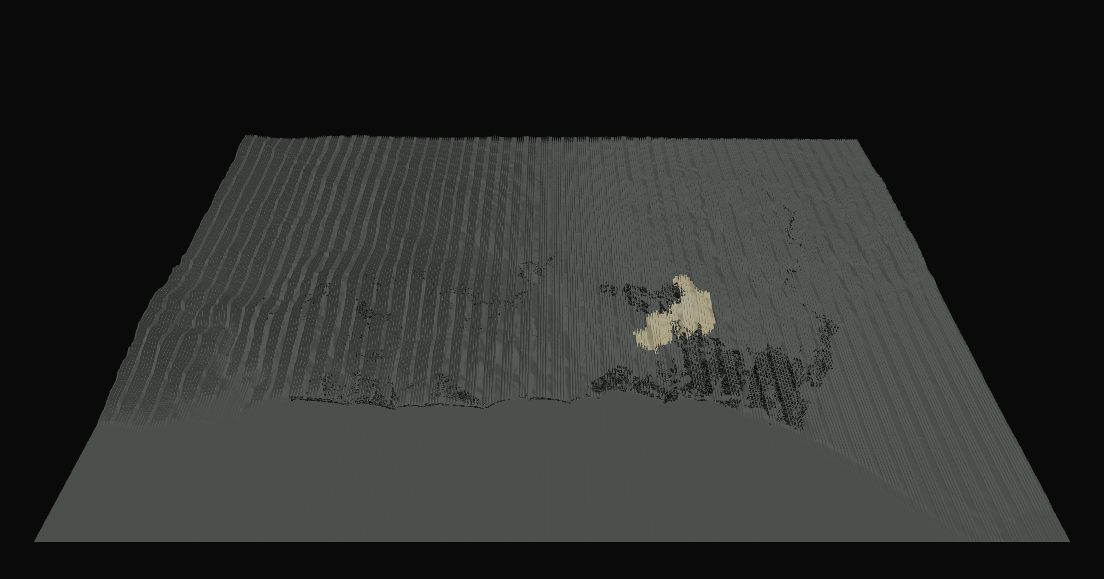
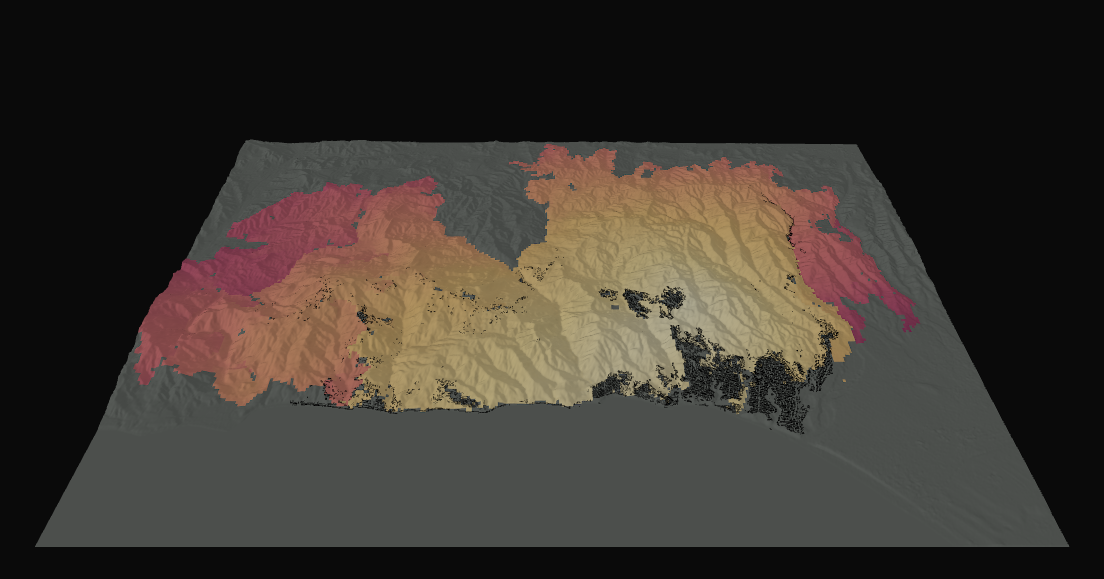
the holes in the ground: dem_window put Copernicus pixel centres exactly on output cell edges, so at one arc-second one column in three or four received no pixel and came out NaN; Horn's slope read each hole as a cliff and both fire engines had been burning across east-west cliffs all day (seen by A
Claude-Session: https://claude.ai/code/session_018TGCFhEpYs9hm68xDLd5Xy

diff --git a/crates/registry/src/terrain.rs b/crates/registry/src/terrain.rs
@@ -23,7 +23,8 @@ pub struct DemWindow {
     pub provenance: String,
 }
 
-const RECIPE_VERSION: &str = "terrain-v2"; // v2: reader honours PixelIsPoint
+const RECIPE_VERSION: &str = "terrain-v3"; // v2: reader honours PixelIsPoint; v3: grid laid half a pixel off the lattice (no empty columns)
+const SOURCE_ARCSEC: f64 = 1.0; // Copernicus GLO-30 below 50 degrees of latitude
 
 fn derived_path(fetcher: &Fetcher, key: &str) -> PathBuf {
     let dir = fetcher.cache_dir.join("derived");
@@ -45,8 +46,16 @@ fn write_f32s(path: &std::path::Path, v: &[f32]) {
 /// The window is snapped outward to whole output cells.
 pub fn dem_window(fetcher: &mut Fetcher, dem: &Asset, lat_s: f64, lat_n: f64, lon_w: f64, lon_e: f64, res_arcsec: f64) -> Result<DemWindow, String> {
     let d = res_arcsec / 3600.0;
-    let lon_w = (lon_w / d).floor() * d;
-    let lat_n = (lat_n / d).ceil() * d;
+    // GLO-30's pixel centres sit on whole arc-seconds. An output grid whose edges also sit on
+    // whole arc-seconds puts every source centre exactly on an edge, and floating-point rounding
+    // then decides which cell it falls in: at one arc-second one column in three or four got no
+    // pixel at all and came out NaN, which the slope code read as a 400 m trench (found 2026-11-03
+    // in the Palisades window). So the grid is laid half a source pixel off the lattice: at the
+    // DEM's own resolution each cell is centred on its pixel, and at coarser ones no pixel centre
+    // lies on an edge.
+    let half = SOURCE_ARCSEC / 3600.0 / 2.0;
+    let lon_w = (lon_w / d).floor() * d - half;
+    let lat_n = (lat_n / d).ceil() * d + half;
     let nx = ((lon_e - lon_w) / d).ceil() as usize;
     let ny = ((lat_n - lat_s) / d).ceil() as usize;
     // tiles needed
@@ -78,6 +87,7 @@ pub fn dem_window(fetcher: &mut Fetcher, dem: &Asset, lat_s: f64, lat_n: f64, lo
     let mut cnt = vec![0u32; nx * ny];
     for (_, p) in &paths {
         let r = cog::read(p)?;
+        if ((r.dx * 3600.0) - SOURCE_ARCSEC).abs() > 1e-6 { eprintln!("dem: tile pixel is {:.4} arcsec, not {SOURCE_ARCSEC}; the grid may not sit on its centres", r.dx * 3600.0); }
         // map every source pixel centre into an output cell
         for row in 0..r.height {
             let lat = r.lat(row);

diff --git a/devlog/20261103-the-holes-in-the-ground.md b/devlog/20261103-the-holes-in-the-ground.md
@@ -1,0 +1,93 @@
+# 2026-11-03 — The holes in the ground
+
+Anselm, looking at the three-dimensional view of the engine run, asked why the terrain was
+striped, and whether the 3D scene was "simply a 3D surface with the other model draped on
+it". The second is true by design: `Scene3D.svelte` draws the terrain frame as a mesh, the
+building frame as boxes and the arrival frame as vertex colour. The first was a bug that
+both fire engines had been running on all day.
+
+## What it was
+
+`dem_window` in `crates/registry/src/terrain.rs` bins every source pixel centre into an
+output cell. Copernicus GLO-30's pixel centres sit on whole arc-seconds; the output grid's
+edges also sat on whole arc-seconds (`lon_w` floored to a multiple of the cell). So every
+source centre lay exactly on a cell edge, and floating-point rounding chose the side. In the
+Palisades window at one arc-second, 222 of 937 columns received no pixel at all and came out
+NaN (a repeating 3, 3, 3, 3, 7 pattern), plus the last row. The frames shown on the maps are
+reduced to 3-arcsecond blocks (earliest arrival, most common class), which hide a one-column
+hole; the full-resolution terrain mesh was the first view that did not.
+
+The slope code (`DemWindow::slope_aspect`, Horn's method) reads a NaN neighbour as 0 m. A
+hole between two columns at 450 m is a 450 m trench one cell wide, so the two columns beside
+every hole had a slope near 84 degrees facing the hole. Rothermel's slope factor goes with
+tan² of that (about 90) and `fire.cells` stretches its reach by tan (about 10) in the uphill
+direction. Both engines had been burning across a landscape of east-west cliffs. The Rothermel
+overrun that the project page, the limits page and the Substack draft all reported as "four
+times the record at 27 hours" was this.
+
+## The fix
+
+The grid is laid half a source pixel off the lattice (`SOURCE_ARCSEC = 1.0`, a constant for
+GLO-30 below 50 degrees; the reader warns if a tile's pixel disagrees). At the DEM's own
+resolution each cell is now centred on its pixel; at coarser resolutions no pixel centre lies
+on an edge. `RECIPE_VERSION` went to `terrain-v3`, so the derived caches are rebuilt. The
+window's `lon_w` and `lat_n` move by half an arc-second, and every layer that derives its
+grid from the window (cover, buildings, roads, perimeters, inspections) moves with it.
+
+The Boone basin at 15 arc-seconds had no holes (fifteen pixels per cell, one ambiguous at the
+edge) but its bins shifted, and `esim regress` drifted: NSE 0.4685 to 0.4751, KGE 0.4352 to
+0.4412, PBIAS 31.4 to 28.6 percent. Accepted with `--accept`; this entry is the explanation.
+Tests pass.
+
+## What the fire looks like on real ground
+
+Every variant of both projects rerun (`esim project run`, old runs pruned to one per variant).
+The first infrared perimeter is 15,824 acres at 27 hours; the last mapped is 23,343.
+
+| run | 27 h before | 27 h after | end before | end after | overlap at end | destroyed reached |
+|---|---|---|---|---|---|---|
+| rothermel reanalysis | 79,107 | 2,031 | 80,304 | 20,892 | 0.58 | 0.28 |
+| rothermel gusts | 75,668 | 2,498 | 80,904 | 34,577 | 0.62 | 0.91 |
+| rothermel built-barrier | 67,843 | 1,606 | 68,151 | 19,589 | 0.56 | 0.07 |
+| rothermel sh7 | 78,762 | 1,834 | 80,193 | 13,970 | 0.56 | 0.25 |
+| cells near-4 | 22,431 | 15,306 | 50,340 | 46,759 | 0.59 | 0.12 |
+| cells houses | 23,093 | 15,458 | 50,842 | 51,702 | 0.56 | 0.19 |
+| cells houses-jitter | 22,844 | 15,062 | 50,577 | 43,773 | 0.61 | 0.16 |
+| cells near-2 | 65,315 | 56,278 | 67,201 | 63,159 | 0.51 | 0.65 |
+| cells scale-6 | 69,187 | 0 | 69,504 | 0 | | |
+
+The picture flipped. Rothermel on the 25 km reanalysis wind is now about eight times too
+slow on the first day (395 acres at the triangle's hour against 2,920; 2,031 at 27 hours
+against 15,824) and reaches the record's size at the end of the fourth day, when the real
+fire was being held; the shape it ends with is fair. The gusts variant is the only one that
+overruns, and only by the end. Our own engine felt the cliffs less, because its slope term is
+linear in the tangent and acts only in the uphill direction; its near-reach runs now sit on
+the record's 27-hour acreage almost exactly (15,306 against 15,824 for near-4) and still run
+to twice the record by day four because nothing stops them. The scale-6 variant, which burned
+69,000 acres on the cliffs, burns nothing at all on real ground: the ignition cell's
+neighbours never reach threshold. Destroyed-structure recall in the plausible-pace runs fell
+from 0.32 to 0.19 for the houses variant; the fire had been reaching the neighbourhoods partly
+along the phantom slopes.
+
+The lesson for the honesty rule: the overrun was reported with the right caveats (no
+suppression, no barriers, recalled fuel table) and the wrong cause. Every number on the
+pages, in `limits.md`, in `CLAUDE.md` and in the Substack draft was rewritten this
+afternoon; the draft's fire paragraph now says the model is slow on the first day, not fast.
+The covers of both projects were re-rendered from the new runs.
+
+## Questions he asked along the way, answered on the pages
+
+Both engines are cellular automata on a one-arcsecond grid, neither fitted statistically:
+Rothermel is a 1972 physical-empirical rate per fuel type shaped into an ellipse; `fire.cells`
+is a heat budget with declared guesses. Elevation enters both as slope and aspect for the
+fire's spread and nowhere for the wind: the wind is a flat field (one ERA5 point; HRRR at 3 km
+interpolated to each cell), with no terrain channelling and no feedback from the fire (no
+convective column, no indraft, no plume-driven spread). Vegetation is a WorldCover class
+mapped to a fuel model (Rothermel: six classes to five Scott and Burgan models plus a guessed
+urban one) or to one of four kinds with three numbers each (`fire.cells`); no species, fuel
+load, time since burn, canopy height or seasonal live moisture. Added to `limits.md` and to
+the todo as the next modules: terrain-adjusted wind first, a local indraft second, a fuel map
+made for fire third.
+
+Session: Claude Fable 5.1, the esimv1 room on canada1, 2026-11-03 afternoon; this entry was
+written at the end of it. Scratch tables in the session scratchpad (`summarise-fire.py`).

diff --git a/projects/anselm/palisades-2025/README.md b/projects/anselm/palisades-2025/README.md
@@ -43,32 +43,40 @@ table 2025-01-08T21:25Z fire.burned_acres=burned obs.acres=mapped fit.sorensen=o
 table 2025-01-12T00:00Z fire.burned_acres=burned_by_the_end obs.acres=last_mapped fit.sorensen=overlap
 ```
 
-The model overruns the record by a wide margin. On the reanalysis wind it burns about four
-times the area the mapping teams found at 27 hours, and by the second day it has burned
-every cell in the window that can burn, from Malibu to Brentwood, which the real fire did
-not. Four variants ask whether the overrun is a matter of the wind, the
-houses or the shrub: the reanalysis gusts in place of the mean wind, built-up land as a
-barrier instead of a carrier, and the heavier chaparral model. None of them closes the
-gap; the barrier variant removes the houses from the count and nothing more.
+On the reanalysis wind the model is slow. At the hour of the first infrared map it has
+burned about an eighth of the mapped area, and it reaches the record's size only at the
+end of the fourth day, when the real fire had been that size for three. The shape it ends
+with is fair: a little over half of the burned-and-mapped union agrees. Four variants ask
+whether the shortfall is the wind, the houses or the shrub. The reanalysis gusts in place
+of the mean wind close part of the first day's gap and overrun by the end; the heavier
+chaparral model burns less, not more; built-up land as a barrier changes little. None of
+them produces the first night, when the real fire went from the ridge to the sea in hours.
+
+Until the afternoon of 2026-11-03 these runs were made on broken ground. The elevation
+window had a column of missing values every third or fourth cell, which the slope code
+read as a cliff on either side, and the model then burned four times the record and filled
+the window by the second day. The runs on this page are on the corrected ground; the
+devlog entry *The holes in the ground* has the account.
 
 ## What that means
 
-A spread model with no suppression, no roads, no fuel breaks and no burn scars, on a
-landscape where every cell carries fuel, is an upper bound: the fire the land would
-allow. At the hour of the first mapped figure, eleven and a half hours in, the model has
-more than twenty times the acreage the triangle states, and the difference is the things
-this model does not have. Three of them are known and are the next work:
+Two things are missing and they pull in opposite directions. The wind that blew on the
+ridges that night was two or three times what a 25 km reanalysis says, and a spread model
+on the real wind runs faster; the engine project beside this one, which reads NOAA's 3 km
+analysis with its gusts, matches the first day's acreage. And nothing here is fought: by the
+second day the real fire was being held on its eastern and northern flanks, so a model that
+is slow early and unhindered late can end near the right size without having been right at
+any hour. The hourly perimeters, not the final acreage, are the test. Three things are
+known and are the next work:
 
-- The fuel table, recalled, to be checked line by line against the published models.
-- Roads, ridgelines and the 2021 Palisades burn scar as barriers, from OpenStreetMap and
-  the fire history.
+- The wind shaped by the terrain, so the Santa Ana accelerates down the canyons and
+  slackens in the lee, instead of one flat value for the window.
+- The fuel table, recalled, to be checked line by line against the published models, and a
+  fuel map made for fire beside the land-cover classes.
 - Suppression as an agent: engines, dozers and aircraft placed by rule, holding lines
   where the record says lines held.
 
-The overlap scores above are honest about the shape as well as the size: about a third of
-the burned-and-mapped union agrees at 27 hours, because the model's fire does cover the
-real one and then goes far beyond it. The arrival-time map on each run page shows where
-it went first.
+The arrival-time map on each run page shows where the model's fire went first.
 
 ## Not in these runs
 

diff --git a/docs/system/limits.md b/docs/system/limits.md
@@ -92,14 +92,20 @@ holds the history.
 
 ## The fire
 
-- Rothermel's spread model with no suppression, no roads, no fuel breaks and no burn scars,
-  on land cover where every classified cell carries fuel, is an upper bound. On the
-  Palisades fire (2026-11-03) it burns about four times the mapped area at 27 hours
-  (79,000 acres against 15,800 on the reanalysis wind) and fills the window by the second
-  day; at the first mapped figure, eleven and a half hours in, it has more than twenty times
-  the acreage. The gust, barrier and heavy-shrub
-  variants do not close the gap. The missing things are known: barriers, suppression, the
-  fuel table.
+- Rothermel's spread model on one 25 km reanalysis wind is slow on a Santa Ana day. On the
+  Palisades fire (2026-11-03, corrected ground) it has about an eighth of the mapped area at
+  27 hours (2,000 acres against 15,800) and reaches the record's size at the end of the fourth
+  day, when the real fire was being held; the gusts variant has 2,500 at 27 hours and overruns
+  by the end. Ending near the right size is not being right at any hour. Until that afternoon
+  the elevation window had a NaN column every third or fourth cell (pixel centres on cell
+  edges, `terrain.rs`), the slope code read each as a cliff, and the same model burned four
+  times the record; the old figures are in the devlog, not here.
+- The wind is flat. Neither fire module adjusts it for terrain (no channelling down canyons,
+  no lee), and neither feeds the fire back into it (no convective column, no indraft, no
+  plume-driven spread); both are one-way models that read a wind and never write one.
+- Vegetation is a cover class, not a fuel: WorldCover's shrubland is one thing whether it is
+  coastal sage or forty-year chamise; no fuel load, no time since last burn, no canopy
+  height, no seasonal live moisture, no crown fire.
 - Every fuel parameter (`data/events/fuels.toml`) is recalled from Scott and Burgan 2005
   and not yet checked; the moisture, wind-adjustment and ellipse equations are recalled
   too. The ellipse's wind is in m/s with the FARSITE coefficients, which is consistent with
@@ -117,14 +123,15 @@ holds the history.
 - Our own engine (`fire.cells`, 2026-11-03) is a heat budget with guessed constants. One
   multiplier on the ignition thresholds is swept across the runs; with heat felt three cells
   away there is a cliff (the window burns in hours, or the next cell never lights), with heat
-  felt only by the next cell the early hours come within a factor of two of the record and the
-  fire then keeps growing because nothing stops it. The plausible-pace runs reach only a tenth
+  felt only by the next cell the first day matches the record's acreage (15,300 against 15,800
+  at 27 hours on the corrected ground) and the fire then keeps growing because nothing stops
+  it, to twice the record by the fourth day. The plausible-pace runs reach an eighth to a fifth
   of the destroyed structures: a built-up cell is given a high threshold and the engine walks
-  around the neighbourhoods; there is no ember into a house and no house as the next house's
-  fuel. The HRRR 3 km wind it uses reads 10 m/s with 21 m/s gusts at the ignition point in the
-  first hour (checked against GDAL); the reanalysis read 7 and 13.
+  around the neighbourhoods; embers into houses and a house-to-house reach are knobs, not
+  physics. The HRRR 3 km wind it uses reads 10 m/s with 21 m/s gusts at the ignition point in
+  the first hour (checked against GDAL); the reanalysis read 7 and 13.
 - The 3D view takes building heights as feet because the county's service does not state a
-  unit; the terrain surface shows banding from the elevation window.
+  unit.
 - Built-up land carries fire at a guessed rate; nothing about structures is physical.
   No spotting, no crown fire, no fire weather of the fire's own, no evacuation, no people.
 

diff --git a/projects/anselm/palisades-cells/README.md b/projects/anselm/palisades-cells/README.md
@@ -1,8 +1,8 @@
 # The same fire, cell by cell
 
-The first Palisades project runs a 1972 spread formula and overruns the record fourfold.
-This one starts from the facts instead and asks what the simplest engine built on them
-does. Every cell of the ground knows its height and slope, its cover, how much of it is
+The first Palisades project runs a 1972 spread formula on a 25 km wind and is eight times
+too slow on the first day. This one starts from the facts instead and asks what the
+simplest engine built on them does. Every cell of the ground knows its height and slope, its cover, how much of it is
 under a building and how tall, whether a highway crosses it, and, hour by hour, the wind,
 gust, temperature and humidity that NOAA's 3 km analysis put over it. A burning cell
 heats the cells around it, further downwind and uphill. A cell lights when the heat it has
@@ -34,18 +34,27 @@ Two things come out of the sweep, and both are about the engine rather than the 
 The first is a cliff. With a far reach (heat felt three cells away) the fire either fills the
 window in hours or, past a threshold, cannot light the cell next to it at all; there is no
 setting in between that walks at the record's pace. With a near reach, heat felt only by
-the next cell, the early hours come into range: at four times the threshold the engine has
-burned about 5,500 acres at twelve hours where the triangle says 2,920, and about 22,000 at
-27 hours where the map says 15,800. Then it keeps going, because nothing in it stops, and
-by the fourth day it has twice the record.
+the next cell, the first day comes into range: at four times the threshold the engine has
+burned about 4,100 acres at twelve hours where the triangle says 2,920, and about 15,300 at
+27 hours where the infrared map says 15,800. Then it keeps going, because nothing in it
+stops, and by the fourth day it has twice the record.
 
 The second is the houses. The runs that spread at a plausible pace reach only a small share
 of the structures that were in fact destroyed, because a built-up cell is given a high
 threshold and the fire walks around the neighbourhoods rather than into them. The real
-fire went into Pacific Palisades on the first evening and burned it house to house, and
-the model has no mechanism for that: no ember into an eave, no house as the next house's
-fuel. The far-reach runs reach nearly every destroyed structure, but only because they burn
-everything. Between the two is what a structure model has to supply.
+fire went into Pacific Palisades on the first evening and burned it house to house. Two
+further knobs, embers that light houses and a longer reach from house to house, lift the
+share reached from about an eighth to about a fifth at the same acreage, and no further.
+The far-reach runs reach nearly every destroyed structure, but only because they burn
+everything. Between the two is what a structure model has to supply: each house as a body
+with its own exposure, not a cell with a share of roof in it.
+
+Until the afternoon of 2026-11-03 these runs, like the first project's, were made on ground
+with a column of missing elevation every third or fourth cell, which the slope code read as
+cliffs. This engine felt it less than the spread formula does, because it stretches its
+reach by the slope rather than its square, but the first day's pace was partly riding those
+slopes. The runs on this page are on the corrected ground; the devlog entry *The holes in
+the ground* has the account.
 
 ## What is honest about it, and what is not
 

diff --git a/CLAUDE.md b/CLAUDE.md
@@ -111,16 +111,27 @@ how to run it. Development runs on canada1; a read-only copy is deployed to esim
   and gusts at one point; NIFC's daily perimeters by IRWIN id and the WFIGS perimeter of record,
   all anonymous). Fuel models in `data/events/fuels.toml`, every row recalled from Scott and
   Burgan 2005 and unchecked. Project `anselm/palisades-2025` (manifest `f2-palisades-2025`,
-  variants reanalysis, gusts, built-barrier, sh7) runs in about 15 s and overruns the record
-  about fourfold at 27 hours: an upper bound with no barriers or suppression. The first mapped
-  perimeter is a hand-drawn triangle. Fire reaches three cells along 32 directions; progress is
-  per approach direction (summing over neighbours ran the front several times too fast).
+  variants reanalysis, gusts, built-barrier, sh7) runs in about 10 s and, on the corrected ground,
+  is about eight times too slow at 27 hours on the reanalysis wind (2,031 acres against 15,824)
+  and ends the fourth day near the record's size (20,892 against 23,343, overlap 0.58); the gusts
+  variant overruns by the end. The first mapped perimeter is a hand-drawn triangle. Fire reaches
+  three cells along 32 directions; progress is per approach direction (summing over neighbours
+  ran the front several times too fast).
+- The holes in the ground (2026-11-03 afternoon, `devlog/20261103-the-holes-in-the-ground.md`):
+  until then `dem_window` put Copernicus pixel centres exactly on output cell edges, one column
+  in three or four came out NaN at one arc-second, Horn's slope read each as a cliff, and both fire
+  engines ran on east-west cliffs (Rothermel burned 79,000 acres at 27 hours). The grid is now
+  laid half a source pixel off the lattice (`terrain-v3`); the Boone regress baseline moved
+  slightly and was accepted. Any run made before that afternoon on a one-arcsecond window is
+  suspect. Neither fire module adjusts the wind for terrain or feeds the fire back into it.
 - Our own fire engine (2026-11-03, `crates/modules/src/firecells.rs`, kind `fire.cells`): a heat
   budget on 1-arcsec cells with buildings (LA County LARIAC footprints with heights, paged
   anonymously), roads as breaks (OSM context), HRRR 3 km wind each hour (`crates/registry/src/grib.rs`
   reads templates 3.30 and 5.0/5.3 by byte range from the open bucket; `Fetcher::fetch_range_reduced`;
   cross-checked with GDAL), spotting, a declared `ignite_scale` knob. Project `anselm/palisades-cells`
-  (manifest `f3-palisades-cells`; variants scale-2..6 and near-2..4 with reach 45 m). `obs.dins`
+  (manifest `f3-palisades-cells`; variants scale-2..6 and near-2..4 with reach 45 m, houses,
+  houses-jitter). On the corrected ground near-4 has 15,306 acres at 27 hours against 15,824 mapped
+  and twice the record by day four; destroyed-structure recall 0.12 to 0.19. `obs.dins`
   (CAL FIRE's 12,081 inspections) scores structures. A `scene` view renders in 3D (`Scene3D.svelte`,
   three.js 0.170, needs `terrain_elev_m` and `building_height` frames); headless screenshots need the
   swiftshader flags, which the scratchpad shot script now sets. Never `pgrep -f`/`kill` a pattern

diff --git a/todo.md b/todo.md
@@ -84,10 +84,19 @@ dated `devlog/` entry it names; status lives there too, not here. Asked for by A
 
 ## The fire (Anselm, 2026-11-03; `devlog/20261103-the-front-door-and-the-fire.md`, `devlog/20261103-our-own-engine.md`)
 
-- The engine's structure physics, continued: a first pass (embers into houses, house to house,
-  per-cell jitter) took destroyed-structure recall from 0.12 to 0.32; next, structures as
-  individual bodies from the footprints, ignition by radiant exposure and ember load, the
-  building's material where the inspection form states it (the data-share view has it).
+- Terrain-adjusted wind, one-way: the 3 km HRRR field shaped by the DEM so the Santa Ana
+  accelerates down the canyons and slackens in the lee (Anselm, 2026-11-03: "is the wind
+  volumetric?"; it is flat). The biggest gap for the first night now that the ground is real.
+- The fire's own wind, cheapest step: a local indraft toward intense cells added to the ambient
+  field, declared as a guess (Anselm: "in a real forest fire the wind is influenced by the fire
+  itself"). Full coupling (WRF-Fire) is noted and out of reach for this window.
+- Vegetation beyond a cover class: fuel load and species (LANDFIRE, needs an email), time since
+  last burn (the 2021 scar), canopy height (Meta tile below), seasonal live moisture.
+- The engine's structure physics, continued: on the corrected ground the first pass (embers
+  into houses, house to house, per-cell jitter) takes destroyed-structure recall from 0.12 to
+  0.19 at the record's 27-hour acreage; next, structures as individual bodies from the
+  footprints, ignition by radiant exposure and ember load, the building's material where the
+  inspection form states it (the data-share view has it).
 - Fit the engine's constants to the perimeters and the inspections with the Eaton fire (same
   day, same wind, 14,021 acres, DINS exists) held back as the test; a parameter sweep through
   `esim ensemble --set`.
@@ -98,7 +107,8 @@ dated `devlog/` entry it names; status lives there too, not here. Asked for by A
   needs a 16-bit windowed COG read.
 - Canopy height (Meta/WRI 1 m, tile 023012311 over the window) as a fuel layer.
 - The 3D view: land cover on the ground, structures coloured by their recorded fate, a wind
-  arrow, the time cursor playing; terrain banding to understand.
+  arrow, the time cursor playing. (The terrain banding was the elevation window's missing
+  columns, fixed 2026-11-03; `devlog/20261103-the-holes-in-the-ground.md`.)
 - Check `data/events/fuels.toml` line by line against Scott and Burgan 2005 (RMRS-GTR-153); the
   SH5 row decides the Palisades result.
 - Barriers: roads and ridgelines from OpenStreetMap, the 2021 Palisades burn scar from the fire

diff --git a/devlog/20261103-substack-draft-goals.md b/devlog/20261103-substack-draft-goals.md
@@ -27,11 +27,15 @@ in the morning on the 7th, burned 23,448 acres, destroyed 6,845 buildings and ki
 people. We run it again on its own ground: the real terrain at 30 metres, the real land
 cover as fuel, the hour's wind from a weather reanalysis, lit where and when the record
 says, with nobody fighting it. Then we hold the result against the perimeters the fire's
-own mapping teams drew as it grew. The honest news is that the model burns about four
-times what they mapped at 27 hours. No roads, no fuel breaks, no crews, a fuel table I have
-not yet checked against the book it came from. It is an upper bound: the fire the land
-would allow. That is worth knowing, and it is a long way from a tool a fire chief could
-use. The gap is the work.
+own mapping teams drew as it grew. The honest news is that the model is slow: at 27 hours
+it has about an eighth of what they mapped, because a 25 km reanalysis reads a Santa Ana
+night as a stiff breeze, and it reaches the fire's final size only on the fourth day, when
+the real fire was being held. A second engine of our own, on NOAA's 3 km wind with its
+gusts, matches the first day's acreage and then burns twice the record because nothing in
+it stops. Neither is a tool a fire chief could use. The gap is the work. (An earlier
+version of this paragraph said the model burned four times the record. It did, on ground
+with a hole in it every third column that the slope code read as a cliff; the devlog has
+the account.)
 
 The second is Earth 2100. One model of the planet, six assumptions about what we do with
 emissions after 2024, each run to the end of the century and read against the sixteen
